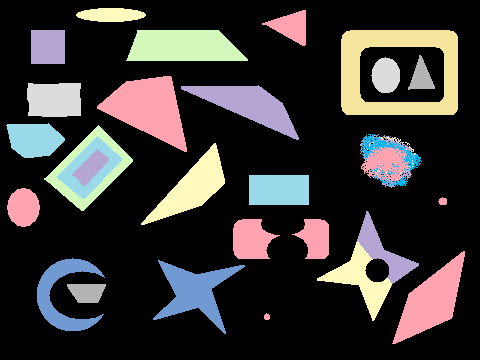
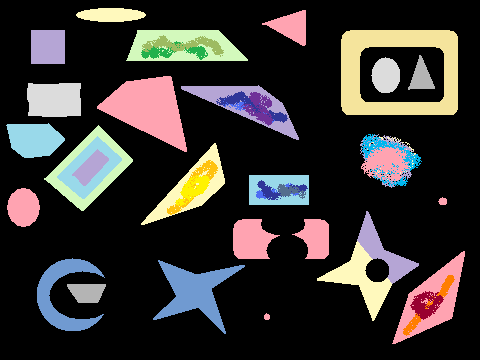
- Added two more properties into Blob class, which are calculated by BlobCounterBase automatically - mean and standard deviation of blob's color. - Sample image updated for Blobs Explorer sample, so new properties are better reflected.

diff --git a/Sources/Imaging/BlobCounterBase.cs b/Sources/Imaging/BlobCounterBase.cs
@@ -393,7 +393,7 @@ namespace AForge.Imaging
             BuildObjectsMap( image );
 
             // collect information about blobs
-            CollectObjectsInfo( );
+            CollectObjectsInfo( image );
 
             // filter blobs by size if required
             if ( filterBlobs )
@@ -493,10 +493,6 @@ namespace AForge.Imaging
             if ( objectLabels == null )
                 throw new ApplicationException( "Image should be processed before to collect objects map." );
 
-            // collect blobs' information
-            if ( blobs == null )
-                CollectObjectsInfo( );
-
             Rectangle[] rects = new Rectangle[objectsCount];
 
             for ( int i = 0; i < objectsCount; i++ )
@@ -548,10 +544,6 @@ namespace AForge.Imaging
             // check if objects map was collected
             if ( objectLabels == null )
                 throw new ApplicationException( "Image should be processed before to collect objects map." );
-
-            // collect rectangles, if they are not collected yet
-            if ( blobs == null )
-                CollectObjectsInfo( );
 
             Blob[] blobsToReturn = new Blob[objectsCount];
 
@@ -675,10 +667,6 @@ namespace AForge.Imaging
                 ( image.PixelFormat != PixelFormat.Format32bppPArgb )
                 )
                 throw new UnsupportedImageFormatException( "Unsupported pixel format of the provided image." );
-
-            // collect rectangles, if they are not collected yet
-            if ( blobs == null )
-                CollectObjectsInfo( );
 
             // image size
             int width  = image.Width;
@@ -1214,7 +1202,7 @@ namespace AForge.Imaging
         #region Private Methods - Collecting objects' rectangles
 
         // Collect objects' rectangles
-        private void CollectObjectsInfo( )
+        private unsafe void CollectObjectsInfo( UnmanagedImage image )
         {
             int i = 0, label;
 
@@ -1225,8 +1213,16 @@ namespace AForge.Imaging
             int[] y2 = new int[objectsCount + 1];
 
             int[] area = new int[objectsCount + 1];
-            int[] xc = new int[objectsCount + 1];
-            int[] yc = new int[objectsCount + 1];
+            long[] xc = new long[objectsCount + 1];
+            long[] yc = new long[objectsCount + 1];
+
+            long[] meanR = new long[objectsCount + 1];
+            long[] meanG = new long[objectsCount + 1];
+            long[] meanB = new long[objectsCount + 1];
+
+            long[] stdDevR = new long[objectsCount + 1];
+            long[] stdDevG = new long[objectsCount + 1];
+            long[] stdDevB = new long[objectsCount + 1];
 
             for ( int j = 1; j <= objectsCount; j++ )
             {
@@ -1234,40 +1230,118 @@ namespace AForge.Imaging
                 y1[j] = imageHeight;
             }
 
-            // walk through labels array
-            for ( int y = 0; y < imageHeight; y++ )
+            byte* src = (byte*) image.ImageData.ToPointer( );
+
+            if ( image.PixelFormat == PixelFormat.Format8bppIndexed )
             {
-                for ( int x = 0; x < imageWidth; x++, i++ )
+                int offset = image.Stride - imageWidth;
+                byte g; // pixel's grey value
+
+                // walk through labels array
+                for ( int y = 0; y < imageHeight; y++ )
                 {
-                    // get current label
-                    label = objectLabels[i];
-
-                    // skip unlabeled pixels
-                    if ( label == 0 )
-                        continue;
-
-                    // check and update all coordinates
-
-                    if ( x < x1[label] )
+                    for ( int x = 0; x < imageWidth; x++, i++, src++ )
                     {
-                        x1[label] = x;
-                    }
-                    if ( x > x2[label] )
-                    {
-                        x2[label] = x;
-                    }
-                    if ( y < y1[label] )
-                    {
-                        y1[label] = y;
-                    }
-                    if ( y > y2[label] )
-                    {
-                        y2[label] = y;
+                        // get current label
+                        label = objectLabels[i];
+
+                        // skip unlabeled pixels
+                        if ( label == 0 )
+                            continue;
+
+                        // check and update all coordinates
+
+                        if ( x < x1[label] )
+                        {
+                            x1[label] = x;
+                        }
+                        if ( x > x2[label] )
+                        {
+                            x2[label] = x;
+                        }
+                        if ( y < y1[label] )
+                        {
+                            y1[label] = y;
+                        }
+                        if ( y > y2[label] )
+                        {
+                            y2[label] = y;
+                        }
+
+                        area[label]++;
+                        xc[label] += x;
+                        yc[label] += y;
+
+                        g = *src;
+                        meanG[label] += g;
+                        stdDevG[label] += g * g;
                     }
 
-                    area[label]++;
-                    xc[label] += x;
-                    yc[label] += y;
+                    src += offset;
+                }
+
+                for ( int j = 1; j <= objectsCount; j++ )
+                {
+                    meanR[j] = meanB[j] = meanG[j];
+                    stdDevR[j] = stdDevB[j] = meanG[j];
+                }
+            }
+            else
+            {
+                // color images
+                int pixelSize = Bitmap.GetPixelFormatSize( image.PixelFormat ) / 8;
+                int offset = image.Stride - imageWidth * pixelSize;
+                byte r, g, b; // RGB value
+
+                // walk through labels array
+                for ( int y = 0; y < imageHeight; y++ )
+                {
+                    for ( int x = 0; x < imageWidth; x++, i++, src += pixelSize )
+                    {
+                        // get current label
+                        label = objectLabels[i];
+
+                        // skip unlabeled pixels
+                        if ( label == 0 )
+                            continue;
+
+                        // check and update all coordinates
+
+                        if ( x < x1[label] )
+                        {
+                            x1[label] = x;
+                        }
+                        if ( x > x2[label] )
+                        {
+                            x2[label] = x;
+                        }
+                        if ( y < y1[label] )
+                        {
+                            y1[label] = y;
+                        }
+                        if ( y > y2[label] )
+                        {
+                            y2[label] = y;
+                        }
+
+                        area[label]++;
+                        xc[label] += x;
+                        yc[label] += y;
+
+                        r = src[RGB.R];
+                        g = src[RGB.G];
+                        b = src[RGB.B];
+
+                        meanR[label] += r;
+                        meanG[label] += g;
+                        meanB[label] += b;
+
+                        stdDevR[label] += r * r;
+                        stdDevG[label] += g * g;
+                        stdDevB[label] += b * b;
+                    }
+
+                    src += offset;
                 }
             }
 
@@ -1276,10 +1350,17 @@ namespace AForge.Imaging
 
             for ( int j = 1; j <= objectsCount; j++ )
             {
+                int blobArea = area[j];
+
                 Blob blob = new Blob( j, new Rectangle( x1[j], y1[j], x2[j] - x1[j] + 1, y2[j] - y1[j] + 1 ) );
-                blob.Area = area[j];
-                blob.Fullness = (double) area[j] / ( ( x2[j] - x1[j] + 1 ) * ( y2[j] - y1[j] + 1 ) );
-                blob.CenterOfGravity = new IntPoint( xc[j] / area[j], yc[j] / area[j] );
+                blob.Area = blobArea;
+                blob.Fullness = (double) blobArea / ( ( x2[j] - x1[j] + 1 ) * ( y2[j] - y1[j] + 1 ) );
+                blob.CenterOfGravity = new IntPoint( (int) ( xc[j] / blobArea ), (int) ( yc[j] / blobArea ) );
+                blob.ColorMean = Color.FromArgb( (byte) ( meanR[j] / blobArea ), (byte) ( meanG[j] / blobArea ), (byte) ( meanB[j] / blobArea ) );
+                blob.ColorStdDev = Color.FromArgb(
+                    (byte) ( Math.Sqrt( stdDevR[j] / blobArea - blob.ColorMean.R * blob.ColorMean.R ) ),
+                    (byte) ( Math.Sqrt( stdDevG[j] / blobArea - blob.ColorMean.G * blob.ColorMean.G ) ),
+                    (byte) ( Math.Sqrt( stdDevB[j] / blobArea - blob.ColorMean.B * blob.ColorMean.B ) ) );
 
                 blobs.Add( blob );
             }

diff --git a/Sources/Imaging/Blob.cs b/Sources/Imaging/Blob.cs
@@ -43,6 +43,10 @@ namespace AForge.Imaging
         private IntPoint cog;
         // fullness of the blob ( area / ( width * height ) )
         private double fullness;
+        // mean color of the blob
+        private Color colorMean = Color.Black;
+        // color's standard deviation of the blob
+        private Color colorStdDev = Color.Black;
 
         /// <summary>
         /// Blob's image.
@@ -141,6 +145,30 @@ namespace AForge.Imaging
         }
 
         /// <summary>
+        /// Blob's mean color.
+        /// </summary>
+        /// 
+        /// <remarks><para>The property keeps mean color of pixels comprising the blob.</para></remarks>
+        /// 
+        public Color ColorMean
+        {
+            get { return colorMean; }
+            internal set { colorMean = value; }
+        }
+
+        /// <summary>
+        /// Blob color's standard deviation.
+        /// </summary>
+        /// 
+        /// <remarks><para>The property keeps standard deviation of pixels' colors comprising the blob.</para></remarks>
+        /// 
+        public Color ColorStdDev
+        {
+            get { return colorStdDev; }
+            internal set { colorStdDev = value; }
+        }
+
+        /// <summary>
         /// Initializes a new instance of the <see cref="Blob"/> class.
         /// </summary>
         /// 
@@ -166,6 +194,8 @@ namespace AForge.Imaging
             cog  = source.cog;
             area = source.area;
             fullness = source.fullness;
+            colorMean = source.colorMean;
+            colorStdDev = source.colorStdDev;
         }
     }
 }
